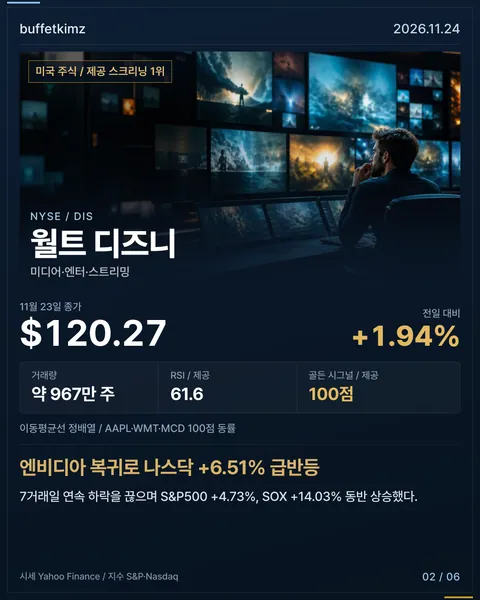
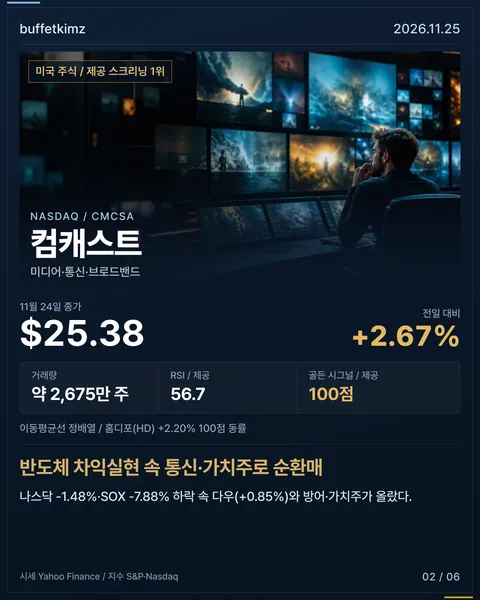
feat(gallery): 4대 시장 퀀트 스크리닝 카드뉴스 갱신 (11/25)

diff --git a/src/data/gallery.ts b/src/data/gallery.ts
@@ -106,23 +106,23 @@ export const galleryItems: GalleryItem[] = [
   /* quant-screening-daily:BEGIN — render_quant_cards.mjs --gallery가 매일 이 블록만 새로 씁니다 */
   {
     id: "quant-screening-daily",
-    title: "4대 시장 퀀트 스크리닝 (11/24)",
+    title: "4대 시장 퀀트 스크리닝 (11/25)",
     tagline: "골든 시그널로 본 4종목",
     summary:
-      "미국 주식·미국 ETF·국내 주식·국내 ETF 네 시장을 같은 기준(이동평균선 정배열·RSI·거래량)으로 훑은 2026. 11. 24 기준 결과입니다. 시장별 1위 4종목과 개장 전 체크포인트 3가지를 6장에 담았습니다.",
+      "미국 주식·미국 ETF·국내 주식·국내 ETF 네 시장을 같은 기준(이동평균선 정배열·RSI·거래량)으로 훑은 2026. 11. 25 기준 결과입니다. 시장별 1위 4종목과 개장 전 체크포인트 3가지를 6장에 담았습니다.",
     category: "cardnews",
-    createdAt: "2026-11-24",
+    createdAt: "2026-11-25",
     tags: ["퀀트 스크리닝", "골든 시그널", "미국 주식", "국내 주식", "ETF"],
     slides: [
-      { src: "/gallery/quant-screening-daily/01.webp", width: 1080, height: 1350, alt: "표지 — 4대 시장 퀀트 스크리닝, 미국 주식 DIS·미국 ETF BIL·국내 주식 LG유플러스·국내 ETF KODEX 인버스2X", caption: "표지 — 골든 시그널로 본 4종목" },
-      { src: "/gallery/quant-screening-daily/02.webp", width: 1080, height: 1350, alt: "미국 주식 / 제공 스크리닝 1위 — 월트 디즈니 $120.27 (+1.94%), 거래량 약 967만 주, RSI / 제공 61.6, 골든 시그널 / 제공 100점", caption: "미국 주식 1위 — 월트 디즈니 $120.27 (+1.94%)" },
-      { src: "/gallery/quant-screening-daily/03.webp", width: 1080, height: 1350, alt: "미국 ETF / 제공 스크리닝 1위 — 미국 초단기 국채 1-3개월 $91.60 (+0.01%), 거래량 안전자산, RSI / 제공 99.2, 골든 시그널 / 제공 85점", caption: "미국 ETF 1위 — 미국 초단기 국채 1-3개월 $91.60 (+0.01%)" },
-      { src: "/gallery/quant-screening-daily/04.webp", width: 1080, height: 1350, alt: "국내 주식 / 제공 스크리닝 1위 — LG유플러스 14,720원 (-1.67%), 거래량 약 76.1만 주, RSI / 제공 52.2, 골든 시그널 / 제공 85점", caption: "국내 주식 1위 — LG유플러스 14,720원 (-1.67%)" },
-      { src: "/gallery/quant-screening-daily/05.webp", width: 1080, height: 1350, alt: "국내 ETF / 제공 스크리닝 1위 — KODEX 200선물인버스2X 140원 (+6.06%), 거래량 인버스 2배, RSI / 제공 70.4, 골든 시그널 / 제공 85점", caption: "국내 ETF 1위 — KODEX 200선물인버스2X 140원 (+6.06%)" },
-      { src: "/gallery/quant-screening-daily/06.webp", width: 1080, height: 1350, alt: "개장 전, 세 가지 체크포인트 — 미국장 나스닥종합 +6.51% / 엔비디아 +31.48%, 개장 전 시그널 코스피200 야간선물 777.95 (+7.06%), 환율·제도 역외 원/달러 1,341.28원 (-4.62원)", caption: "마무리 — 개장 전 체크포인트 3" },
+      { src: "/gallery/quant-screening-daily/01.webp", width: 1080, height: 1350, alt: "표지 — 4대 시장 퀀트 스크리닝, 미국 주식 CMCSA·미국 ETF XLP·국내 주식 하나금융지주·국내 ETF KODEX 은행", caption: "표지 — 골든 시그널로 본 4종목" },
+      { src: "/gallery/quant-screening-daily/02.webp", width: 1080, height: 1350, alt: "미국 주식 / 제공 스크리닝 1위 — 컴캐스트 $25.38 (+2.67%), 거래량 약 2,675만 주, RSI / 제공 56.7, 골든 시그널 / 제공 100점", caption: "미국 주식 1위 — 컴캐스트 $25.38 (+2.67%)" },
+      { src: "/gallery/quant-screening-daily/03.webp", width: 1080, height: 1350, alt: "미국 ETF / 제공 스크리닝 1위 — 미국 필수소비재 섹터 $91.88 (+1.66%), 거래량 약 2,166만 주, RSI / 제공 49.7, 골든 시그널 / 제공 100점", caption: "미국 ETF 1위 — 미국 필수소비재 섹터 $91.88 (+1.66%)" },
+      { src: "/gallery/quant-screening-daily/04.webp", width: 1080, height: 1350, alt: "국내 주식 / 제공 스크리닝 1위 — 하나금융지주 123,100원 (+4.94%), 거래량 약 67.8만 주, RSI / 제공 58.7, 골든 시그널 / 제공 100점", caption: "국내 주식 1위 — 하나금융지주 123,100원 (+4.94%)" },
+      { src: "/gallery/quant-screening-daily/05.webp", width: 1080, height: 1350, alt: "국내 ETF / 제공 스크리닝 1위 — KODEX 은행 14,420원 (+3.93%), 거래량 약 29.8만 주, RSI / 제공 55.4, 골든 시그널 / 제공 100점", caption: "국내 ETF 1위 — KODEX 은행 14,420원 (+3.93%)" },
+      { src: "/gallery/quant-screening-daily/06.webp", width: 1080, height: 1350, alt: "개장 전, 세 가지 체크포인트 — 미국장 다우 +0.85% / 나스닥 -1.48% / SOX -7.88%, 개장 전 시그널 코스피200 야간선물 742.60 (-4.56%), 환율·대외 변수 역외 원/달러 약 1,340.9원 / MSCI 한국 -3.7%", caption: "마무리 — 개장 전 체크포인트 3" },
     ],
     basis:
-      "기준 2026. 11. 24 08:20 · 시세 Yahoo Finance·KRX / 지수 S&P·Nasdaq / 환율 08:20 기준 · 투자 권유가 아닌 기록입니다",
+      "기준 2026. 11. 25 08:20 · 시세 Yahoo Finance·KRX / 지수 S&P·Nasdaq / 환율 08:20 기준 · 투자 권유가 아닌 기록입니다",
     related: [{ label: "오늘의 시장 확인 — 데일리 브리프", href: "/board/" }],
   },
   /* quant-screening-daily:END */
